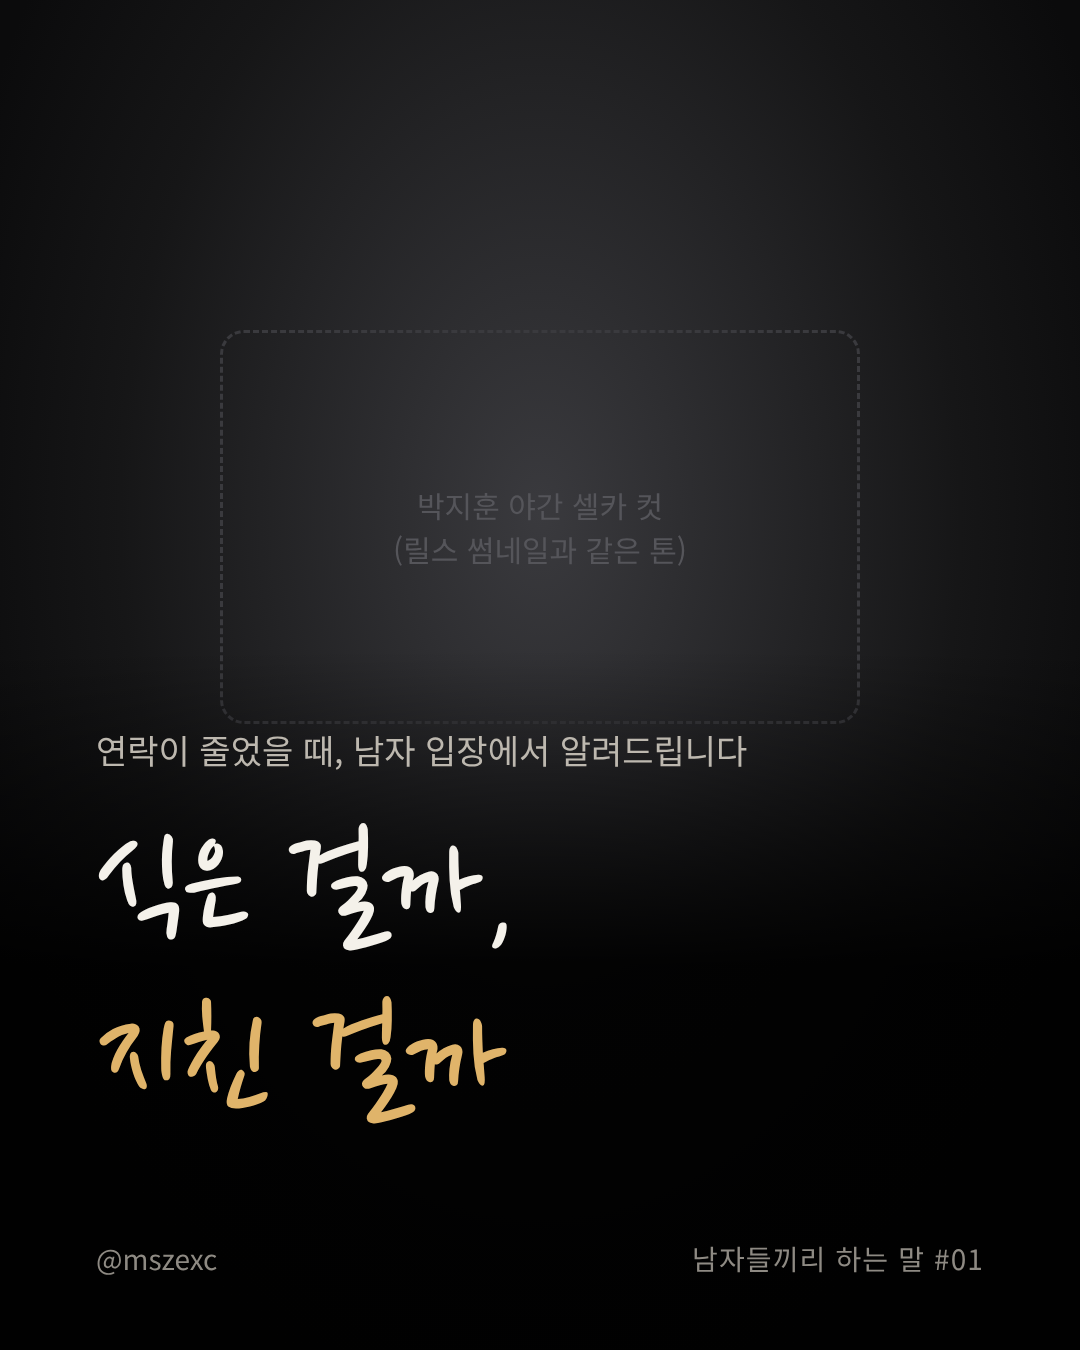
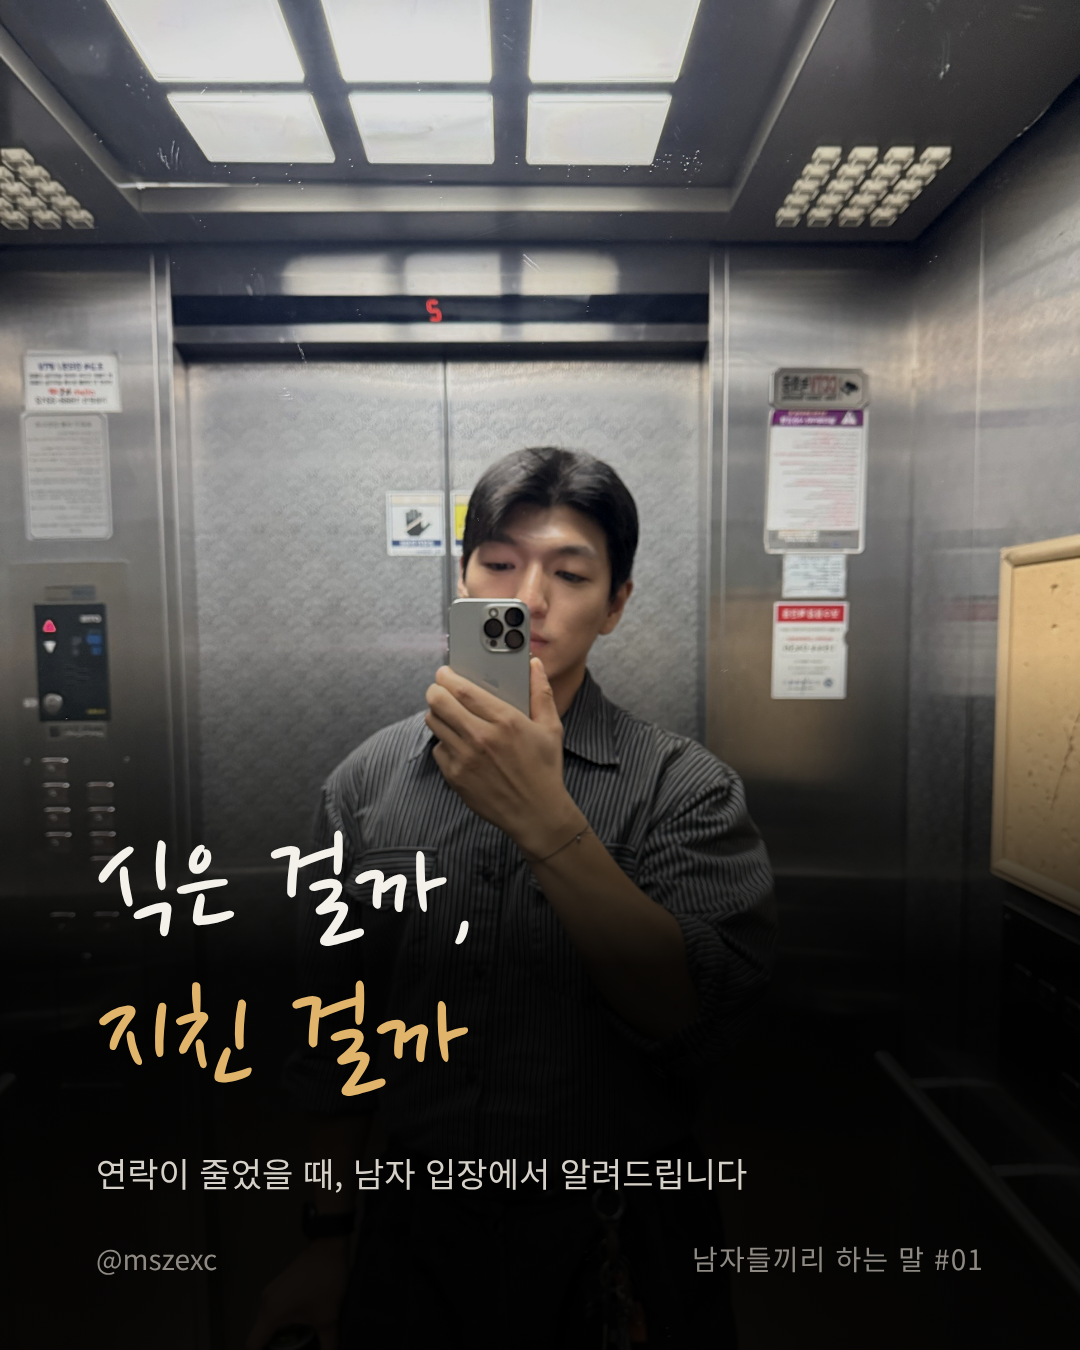
Carousel #01: add cover photo, remove subscription CTA
Claude-Session: https://claude.ai/code/session_01J9i5yL8MFhQ5W67Sx3nDW6

diff --git a/carousel/carousel_01.html b/carousel/carousel_01.html
@@ -55,12 +55,11 @@
 
 <!-- 1. 표지 -->
 <section class="slide" id="s1">
-  <div class="photo"></div>
-  <div class="photo-note">박지훈 야간 셀카 컷<br>(릴스 썸네일과 같은 톤)</div>
+  <img src="cover_photo.jpg" style="position:absolute; inset:0; width:100%; height:100%; object-fit:cover; object-position:50% 0%; filter:brightness(.85) contrast(1.05)">
   <div class="shade"></div>
-  <div class="cover-text">
-    <div class="small" style="color:#bdb8af">연락이 줄었을 때, 남자 입장에서 알려드립니다</div>
-    <div class="pen h1 mt-s">식은 걸까,<br><span class="accent">지친 걸까</span></div>
+  <div class="cover-text" style="bottom:150px">
+    <div class="pen mt-s" style="font-size:136px; line-height:1.1">식은 걸까,<br><span class="accent">지친 걸까</span></div>
+    <div class="small mt-s" style="color:#d6d1c8">연락이 줄었을 때, 남자 입장에서 알려드립니다</div>
   </div>
   <div class="handle">@mszexc</div>
   <div class="series">남자들끼리 하는 말 #01</div>
@@ -193,7 +192,6 @@
     <div class="btn share">↗ 그 사람에게 보내기</div>
     <div class="btn save">저장해두기</div>
   </div>
-  <div class="sub">내 상황은 좀 다르다면 → 구독자 사연 해석에서 직접 답합니다.<br>프로필 상단 '구독' 버튼</div>
   <div class="handle">@mszexc</div>
   <div class="series">남자들끼리 하는 말 #01</div>
 </section>

diff --git a/carousel/caption.md b/carousel/caption.md
@@ -9,7 +9,6 @@
 → 그 사람에게 공유 / 친구에게 "이거 네 얘기 아니야?"
 
 당신 쪽은 어느 쪽인가요? 댓글로 '지친' 또는 '식은'만 남겨주세요.
-상황이 조금 다르다면, 구독자 사연 해석에서 직접 답합니다.
 
 #남자심리 #연애심리 #연애고민 #권태기 #남자속마음 #남자들끼리하는말
 
